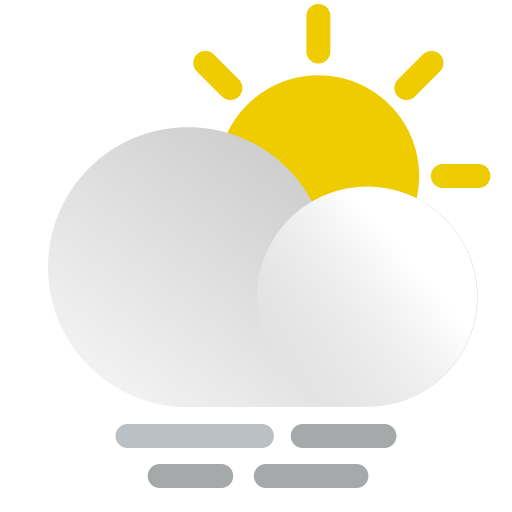
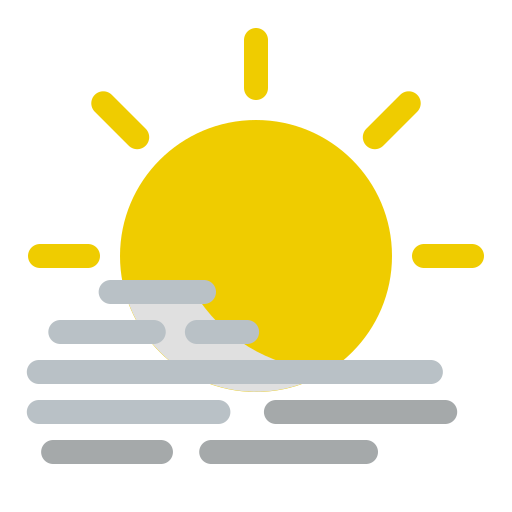
Night and day working with few bugs

diff --git a/js/update.js b/js/update.js
@@ -9,29 +9,52 @@ fetch('https://api.open-meteo.com/v1/forecast?latitude=-0.6817&longitude=34.7667
     const rain = Math.round(data.current.rain);
     const weatherCode = data.current.weather_code; // Extract weather code
 
-    // Determine weather description based on the weather code
+    // Determine weather description and icon based on the weather code
     let weatherDescription;
-    if (weatherCode >= 0 && weatherCode <= 19) {
+    let icon;
+
+    if (weatherCode >= 0 && weatherCode <= 1) {
       weatherDescription = "Clear skies";
+      icon = "01.png";
+    } else if (weatherCode === 2) {
+      weatherDescription = "Partly cloudy";
+      icon = "02.png";
     } else if (weatherCode >= 20 && weatherCode <= 29) {
       weatherDescription = "Thunderstorm";
+      icon = "04.png";
     } else if (weatherCode >= 30 && weatherCode <= 39) {
       weatherDescription = "Drizzle";
+      icon = "03b.png";
     } else if (weatherCode >= 40 && weatherCode <= 49) {
       weatherDescription = "Rain";
+      icon = "03.png";
     } else if (weatherCode >= 50 && weatherCode <= 59) {
-      weatherDescription = "Snow";
+      weatherDescription = "Snow showers";
+      icon = "07.png";
     } else if (weatherCode >= 60 && weatherCode <= 69) {
       weatherDescription = "Freezing rain";
+      icon = "03c.png"; // Reuse icon for moderate rain showers if no freezing rain icon exists
     } else if (weatherCode >= 70 && weatherCode <= 79) {
       weatherDescription = "Ice pellets";
+      icon = "03a.png"; // Reuse light rain showers icon if no ice pellets icon exists
     } else if (weatherCode >= 80 && weatherCode <= 89) {
       weatherDescription = "Rain showers";
+      icon = "03.png"; // Use the main rain icon for general rain showers
     } else if (weatherCode >= 90 && weatherCode <= 99) {
       weatherDescription = "Snow showers";
+      icon = "07.png";
     } else {
       weatherDescription = "Unknown";
+      icon = "default.png"; 
     }
+
+    // Determine if it's day or night
+    const currentHour = new Date().getHours(); // Get current hour (0-23)
+    const isNight = currentHour >= 18 || currentHour < 6;
+    const folder = isNight ? "night" : "day";
+
+    // Update the icon based on the time of day
+    document.getElementById('icon').src = `images/${folder}/${icon}`;
 
     // Update the UI elements with rounded values and weather description
     document.getElementById('temp').textContent = `${currentTemp}`;
@@ -42,7 +65,6 @@ fetch('https://api.open-meteo.com/v1/forecast?latitude=-0.6817&longitude=34.7667
     document.getElementById('subreading').textContent = weatherDescription;
 
     // ... similar logic for other UI elements
-
   })
   .catch(error => {
     console.error('Error fetching data:', error);

diff --git a/index.html b/index.html
@@ -35,7 +35,7 @@
                                 <svg style="height: 35%;" version="1.0" id="Layer_1" xmlns="http://www.w3.org/2000/svg" xmlns:xlink="http://www.w3.org/1999/xlink" viewBox="-0.64 -0.64 65.28 65.28" enable-background="new 0 0 64 64" xml:space="preserve" fill="#cccccc" stroke="#cccccc" stroke-width="0.064"><g id="SVGRepo_bgCarrier" stroke-width="0"></g><g id="SVGRepo_tracerCarrier" stroke-linecap="round" stroke-linejoin="round"></g><g id="SVGRepo_iconCarrier"> <path fill="#cccccc" d="M32,0C18.746,0,8,10.746,8,24c0,5.219,1.711,10.008,4.555,13.93c0.051,0.094,0.059,0.199,0.117,0.289l16,24 C29.414,63.332,30.664,64,32,64s2.586-0.668,3.328-1.781l16-24c0.059-0.09,0.066-0.195,0.117-0.289C54.289,34.008,56,29.219,56,24 C56,10.746,45.254,0,32,0z M32,32c-4.418,0-8-3.582-8-8s3.582-8,8-8s8,3.582,8,8S36.418,32,32,32z"></path> </g></svg>
                             </div>
                             <div id="location" class="location-name">
-                                Kisii town
+                                Nairobi
                             </div>
                         </div>
                         
@@ -96,7 +96,7 @@
 
                             </div>
                             <div class="home-icon-pic absolute ">
-                                <img id="icon" style="height: 100%;" src="images/night/02.png" >
+                                <img id="icon" style="height: 100%;" src="images/neither/06n.png" >
                             </div>
                             
                         </div>

diff --git a/styles/index.css b/styles/index.css
@@ -329,8 +329,7 @@ body, html {
     display: flex;
     margin: auto;
     margin-left: 70px;
-    margin-top: 25px;
-    
+    margin-top: 25px;    
   }
   .history-in{
     padding-left: 5px;
